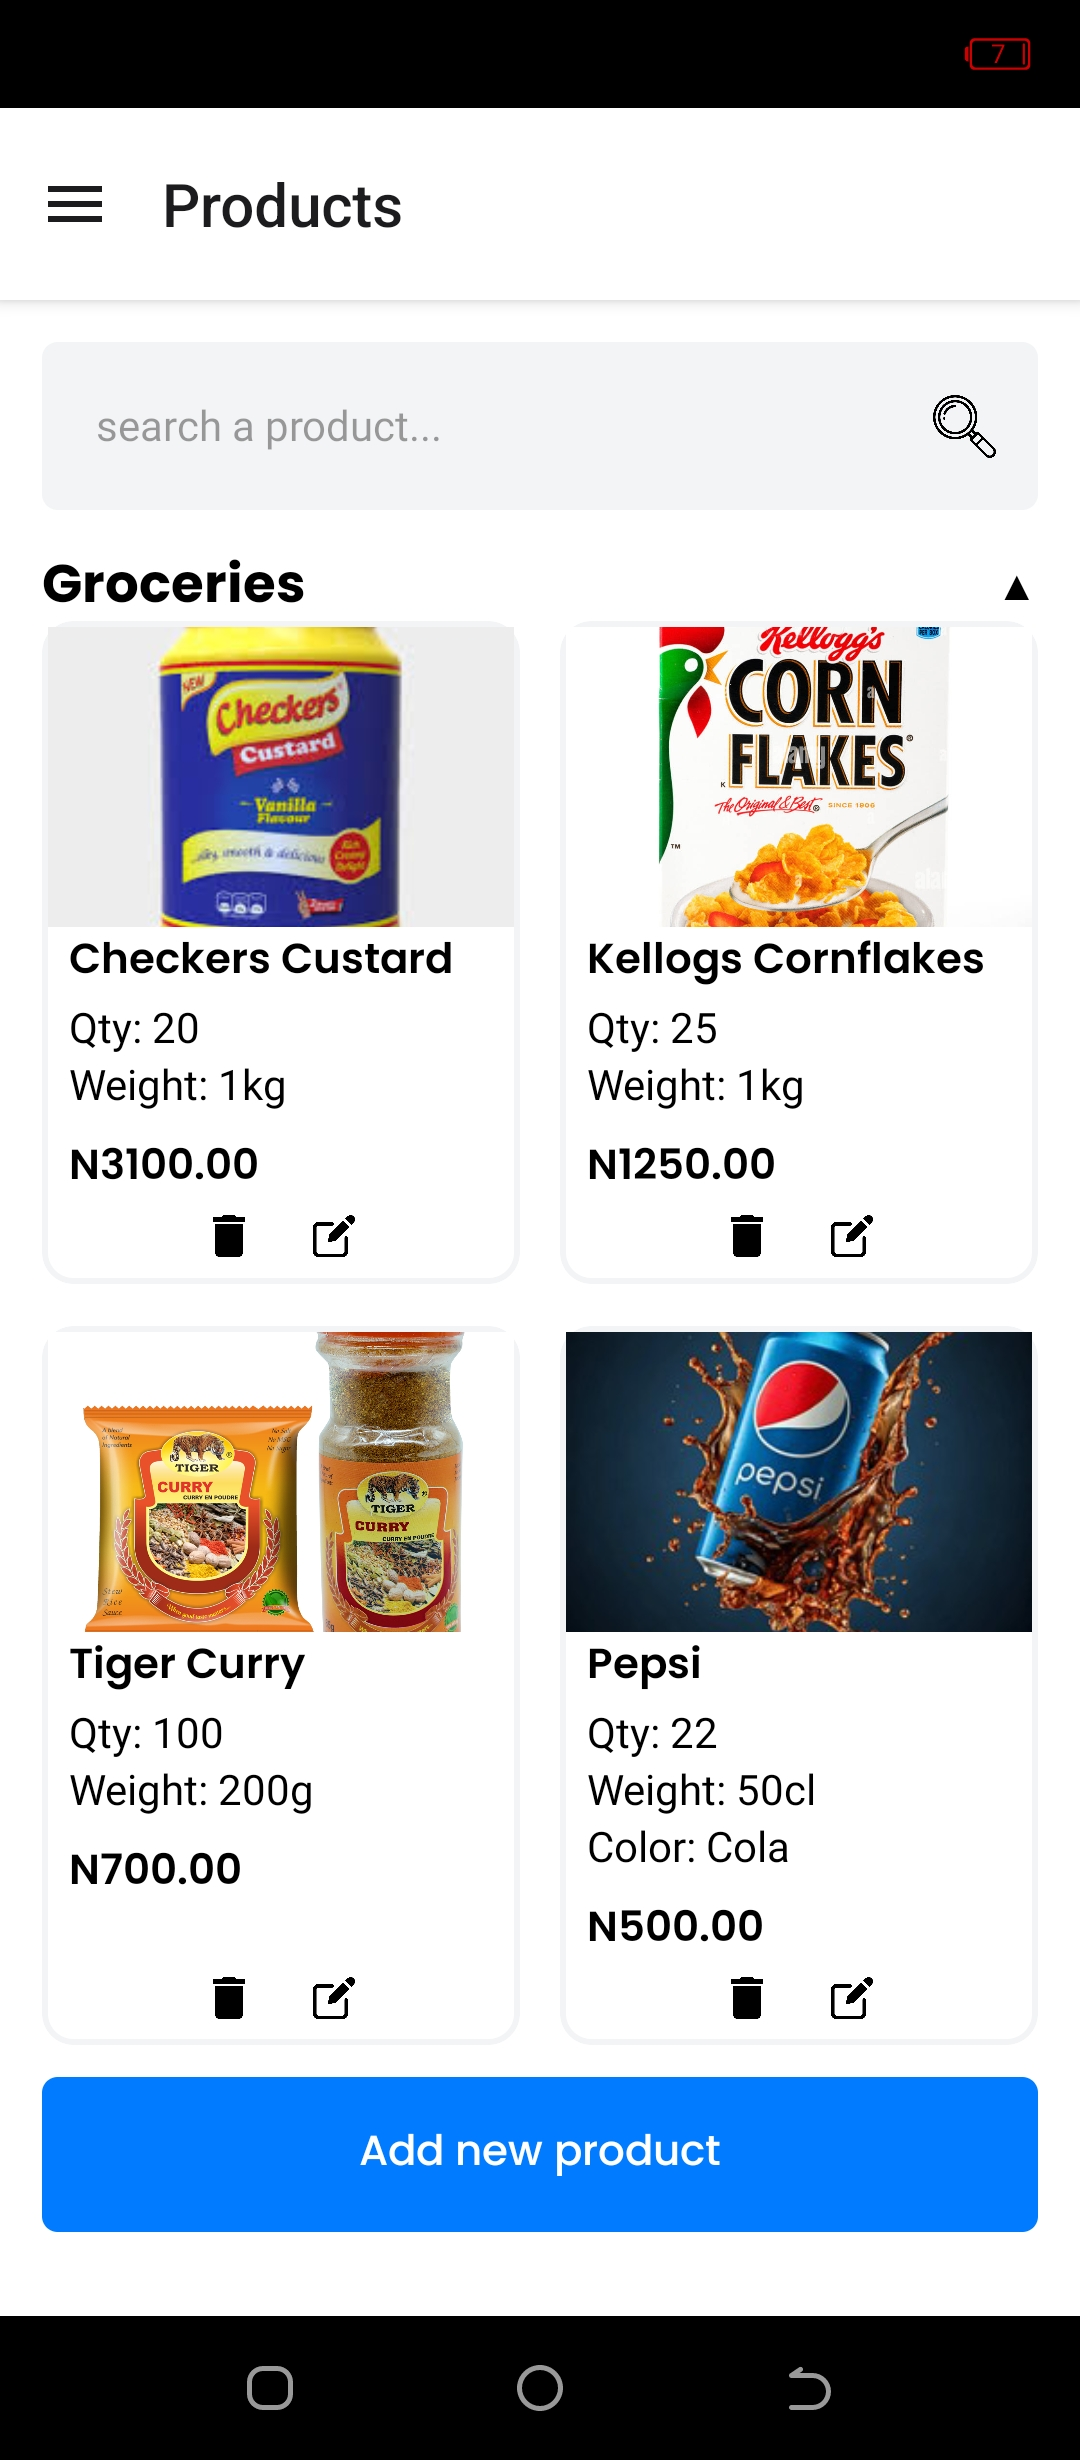
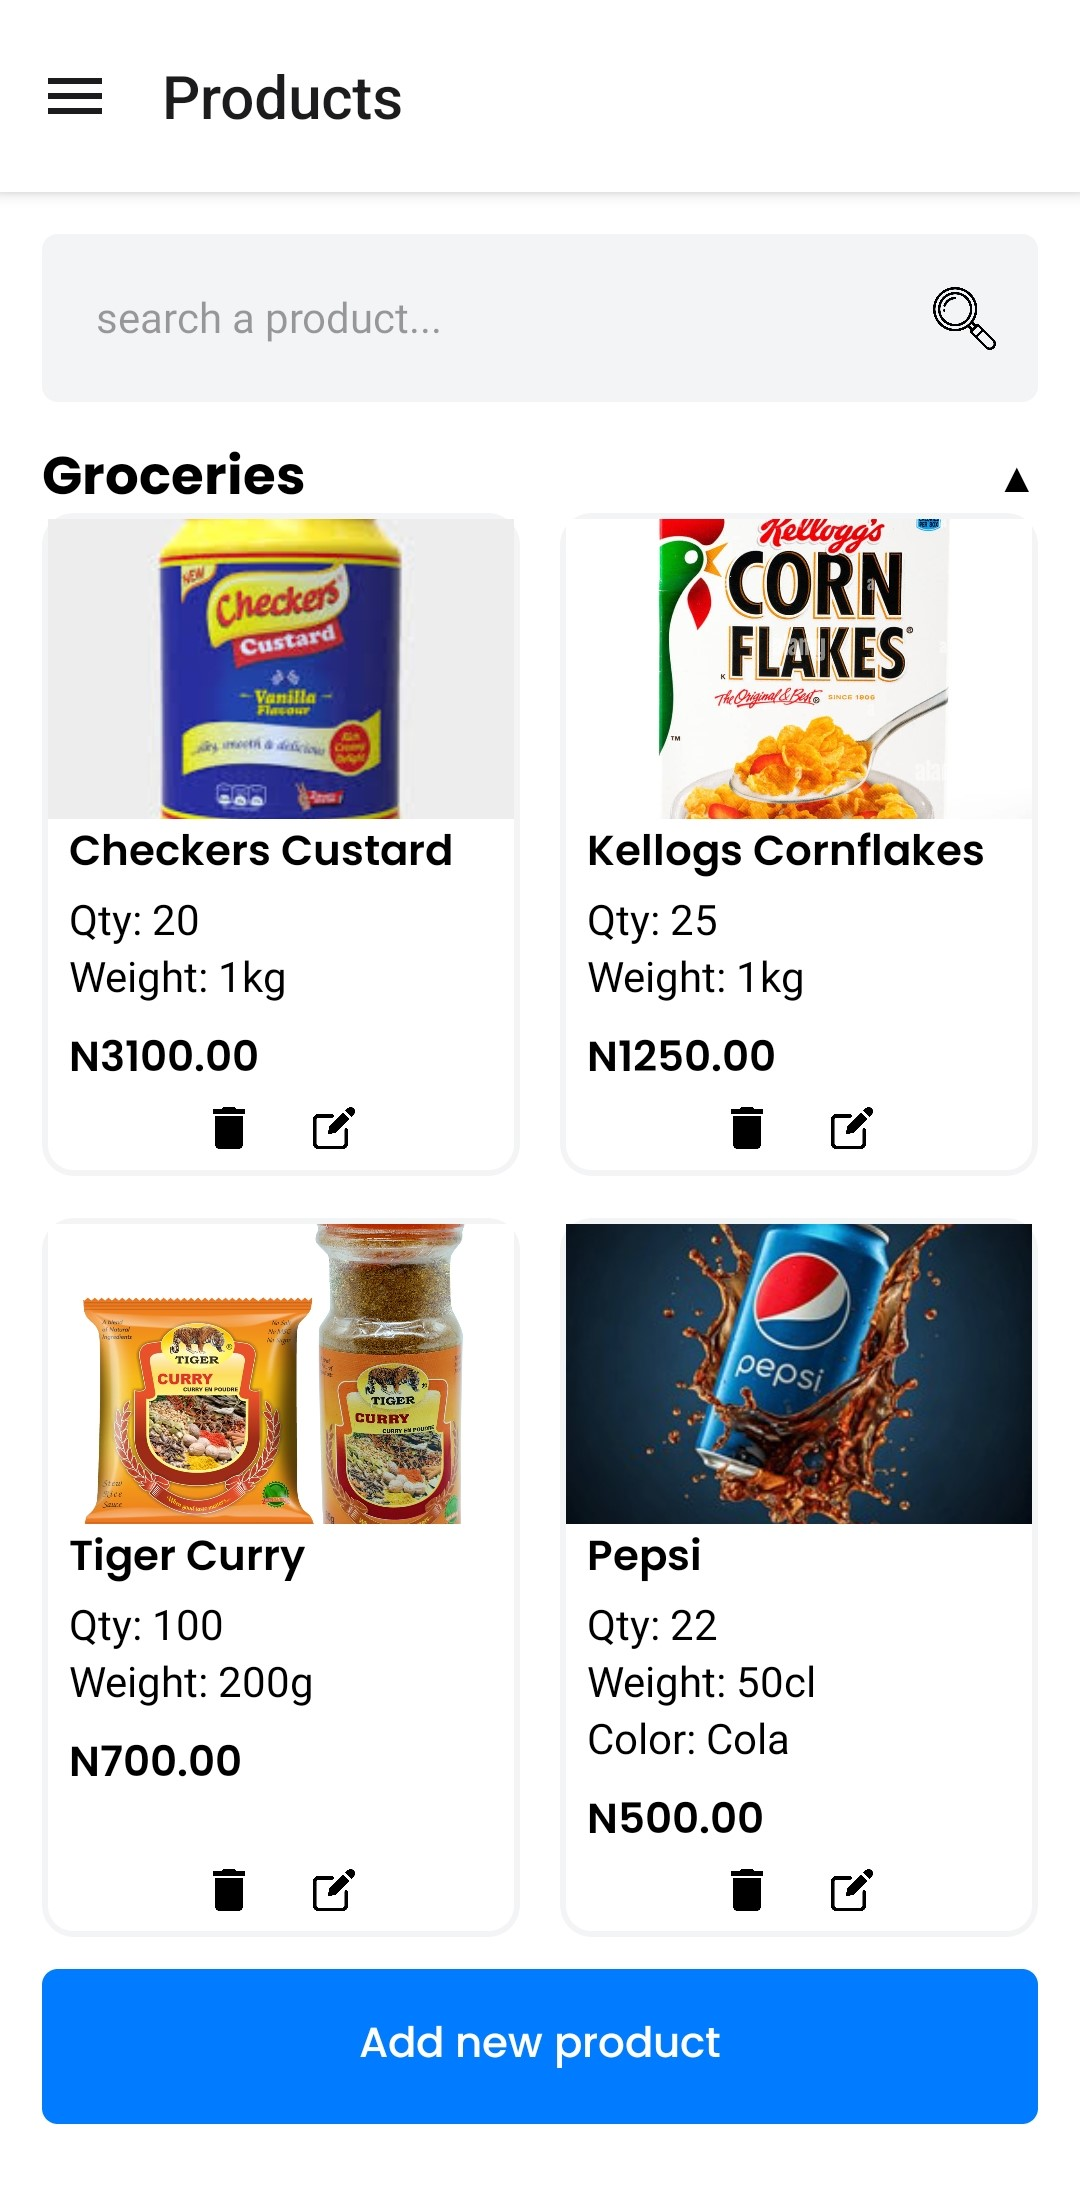
feat(ui): add animations to homepage and products page

diff --git a/src/pages/Project.jsx b/src/pages/Project.jsx
@@ -1,7 +1,12 @@
-import React, { useState } from "react";
+import React, { useEffect, useRef, useState } from "react";
 import Wrapper from "../components/wrapper";
 import Card from "../components/card";
 import useFetchJson from "../hooks/useFetchJson.js";
+import gsap from "gsap";
+import { ScrollTrigger } from "gsap/all";
+import { useLayoutEffect } from "react";
+
+gsap.registerPlugin(ScrollTrigger);
 
 const Project = () => {
   const {
@@ -11,6 +16,99 @@ const Project = () => {
   } = useFetchJson("/data/projects.json");
 
   const [filterCategory, setFilterCategory] = useState("");
+
+  const searchRef = useRef(null);
+  const listRef = useRef(null);
+  const projectRefs = useRef([]);
+  projectRefs.current = [];
+
+  useLayoutEffect(() => {
+    if (loadingProjects || errorProjects) return;
+
+    if (!searchRef.current) return;
+
+    const ctx = gsap.context(() => {
+      gsap.from(searchRef.current, {
+        x: -100,
+        opacity: 0,
+        duration: 0.8,
+        ease: "power2.out",
+        delay: 0.2,
+      });
+    });
+
+    console.log("searchRef is:", searchRef.current);
+
+    return () => ctx.revert();
+  }, [loadingProjects, errorProjects]);
+
+  useEffect(() => {
+    const ctx = gsap.context(() => {
+      projectRefs.current.forEach((card, i) => {
+        if (!card) return;
+
+        // Scroll-in animation
+        gsap.fromTo(
+          card,
+          { opacity: 0, y: 50 },
+          {
+            opacity: 1,
+            y: 0,
+            duration: 0.6,
+            ease: "power2.out",
+            delay: i * 0.1,
+            scrollTrigger: {
+              trigger: card,
+              start: "top 90%",
+              toggleActions: "play none none none",
+            },
+          }
+        );
+
+        // Hover animation
+        const onEnter = () => {
+          gsap.to(card, {
+            scale: 1.03,
+            y: -5,
+            duration: 0.3,
+            ease: "power2.out",
+          });
+        };
+
+        const onLeave = () => {
+          gsap.to(card, {
+            scale: 1,
+            y: 0,
+            duration: 0.3,
+            ease: "power2.out",
+          });
+        };
+
+        card.addEventListener("mouseenter", onEnter);
+        card.addEventListener("mouseleave", onLeave);
+
+        // Store for cleanup
+        card._gsapHoverListeners = { onEnter, onLeave };
+      });
+    });
+
+    return () => {
+      // Cleanup hover listeners
+      projectRefs.current.forEach((card) => {
+        if (card?._gsapHoverListeners) {
+          card.removeEventListener(
+            "mouseenter",
+            card._gsapHoverListeners.onEnter
+          );
+          card.removeEventListener(
+            "mouseleave",
+            card._gsapHoverListeners.onLeave
+          );
+        }
+      });
+      ctx.revert(); // Clean up GSAP animations
+    };
+  }, [projects, filterCategory]);
 
   if (loadingProjects) return <p>Loading...</p>;
   if (errorProjects) return <p>Error loading some data.</p>;
@@ -25,7 +123,7 @@ const Project = () => {
         </p>
       </div>
       <div className="flex flex-col gap-3 rounded-md">
-        <div className="flex bg-[#21364A] py-2 px-3 rounded-md">
+        <div className="flex bg-[#21364A] py-2 px-3 rounded-md" ref={searchRef}>
           <img src="search.png" alt="search icon" />
           <input
             type="search"
@@ -56,13 +154,20 @@ const Project = () => {
           </Card>
         </div>
       </div>
-      <div className="projects-list grid grid-cols-3 gap-x-3 gap-y-6 max-lg:grid-cols-2">
+      <div
+        className="projects-list grid grid-cols-3 gap-x-3 gap-y-6 max-lg:grid-cols-2"
+        ref={listRef}
+      >
         {projects
           .filter((project) =>
             filterCategory === "" ? true : project.category === filterCategory
           )
-          .map((project) => (
-            <div key={project.id} className="text-sm flex flex-col gap-3">
+          .map((project, i) => (
+            <div
+              key={project.id}
+              ref={(el) => (projectRefs.current[i] = el)}
+              className="text-sm flex flex-col gap-3 "
+            >
               <div className="h-40 max-sm:h-28">
                 <img
                   src={project.image}

diff --git a/src/pages/Homepage.jsx b/src/pages/Homepage.jsx
@@ -7,6 +7,10 @@ import Wrapper from "../components/wrapper";
 import emailjs from "@emailjs/browser";
 import { toast } from "react-toastify";
 import useFetchJson from "../hooks/useFetchJson";
+import gsap from "gsap";
+import { ScrollTrigger } from "gsap/all";
+
+gsap.registerPlugin(ScrollTrigger);
 
 const Homepage = () => {
   const {
@@ -27,6 +31,8 @@ const Homepage = () => {
 
   const location = useLocation();
   const form = useRef();
+  const contactRef = useRef(null);
+  const projectsRef = useRef(null);
 
   useEffect(() => {
     if (location.hash) {
@@ -64,6 +70,65 @@ const Homepage = () => {
       );
   };
 
+  useEffect(() => {
+    if (loadingAbout || loadingSkills || loadingProjects || !contactRef.current)
+      return;
+    console.log("GSAP effect running");
+
+    const ctx = gsap.context(() => {
+      gsap.fromTo(
+        contactRef.current,
+        { opacity: 0, y: 50 },
+        {
+          opacity: 1,
+          y: 0,
+          duration: 1,
+          ease: "power2.out",
+          scrollTrigger: {
+            trigger: contactRef.current,
+            start: "top 80%",
+            toggleActions: "play none none reset", // ensures it only plays on enter
+          },
+        }
+      );
+    }, contactRef);
+
+    ScrollTrigger.refresh();
+
+    return () => ctx.revert();
+  }, [loadingAbout, loadingProjects, loadingSkills]);
+
+  useEffect(() => {
+    if (
+      loadingAbout ||
+      loadingSkills ||
+      loadingProjects ||
+      !projectsRef.current
+    )
+      return;
+
+    const ctx = gsap.context(() => {
+      gsap.fromTo(
+        projectsRef.current,
+        { opacity: 0, y: 50 }, // 👈 slide in from left
+        {
+          opacity: 1,
+          y: 0,
+          duration: 2,
+          ease: "power2.out",
+          scrollTrigger: {
+            trigger: projectsRef.current,
+            start: "top 80%",
+            toggleActions: "play none none reset", // slide in & out
+            // markers: true, // optional debugging
+          },
+        }
+      );
+    }, projectsRef);
+
+    return () => ctx.revert();
+  }, [loadingAbout, loadingSkills, loadingProjects]);
+
   if (loadingAbout || loadingSkills || loadingProjects)
     return <p>Loading...</p>;
   if (errorAbout || errorSkills || errorProjects)
@@ -92,7 +157,11 @@ const Homepage = () => {
       </div>
 
       {/* projects */}
-      <section id="projects" className="projects flex gap-2 flex-col">
+      <section
+        id="projects"
+        ref={projectsRef}
+        className="projects flex gap-2 flex-col"
+      >
         <h1 className="text-white text-lg font-bold">Featured Projects</h1>
         <div className="projects-wrapper flex flex-col gap-5">
           {/* project 1 */}
@@ -135,7 +204,11 @@ const Homepage = () => {
             ))}
         </div>
       </section>
-      <section id="contact" className="contact flex flex-col gap-3">
+      <section
+        id="contact"
+        ref={contactRef}
+        className="contact flex flex-col gap-3"
+      >
         <h1 className="text-white font-bold text-lg">Contact</h1>
         <form ref={form} onSubmit={sendEmail} className="flex flex-col gap-2">
           <div className="text-[#8FADCC] flex flex-col gap-4 flex-auto max-w-xs">

diff --git a/src/components/card.jsx b/src/components/card.jsx
@@ -1,9 +1,44 @@
-import React from "react";
+import React, { useEffect, useRef } from "react";
+import gsap from "gsap";
 
 const Card = ({ children, color, styles, onClickHandler }) => {
+  const cardRef = useRef(null);
+  useEffect(() => {
+    const el = cardRef.current;
+
+    const onEnter = () => {
+      gsap.to(el, {
+        scale: 1.05,
+        y: -5,
+        boxShadow: "0px 8px 15px rgba(61, 153, 245, 0.3)",
+        duration: 0.3,
+        ease: "power2.out",
+      });
+    };
+
+    const onLeave = () => {
+      gsap.to(el, {
+        scale: 1,
+        y: 0,
+        boxShadow: "none",
+        duration: 0.3,
+        ease: "power2.inOut",
+      });
+    };
+
+    el.addEventListener("mouseenter", onEnter);
+    el.addEventListener("mouseleave", onLeave);
+
+    return () => {
+      el.removeEventListener("mouseenter", onEnter);
+      el.removeEventListener("mouseleave", onLeave);
+    };
+  }, []);
+
   return (
     <div
       onClick={onClickHandler ? onClickHandler : null}
+      ref={cardRef}
       className={`${
         color || "bg-[#21364A]"
       }  rounded-sm text-nowrap px-4 py-1 text-sm ${styles || ""}`}
